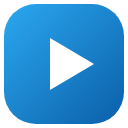
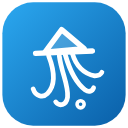
Add-on Tubetto Server 1.0.9

Changed region(s): [[0.2188, 0.1875, 0.8125, 0.875], [0.0, 0.0, 1.0, 1.0]]

diff --git a/tubetto_server/web/app.js b/tubetto_server/web/app.js
@@ -1,7 +1,7 @@
 /* Tubetto Server (add-on Home Assistant) — interfaccia web senza pubblicità, stessa libreria dell'app. */
 'use strict';
 
-const APP_VERSION = '1.0.7';
+const APP_VERSION = '1.0.9';
 const SERVER_MODE = true;
 const SYNC_PATH = 'sync/tubetto-library.json';
 
@@ -454,9 +454,12 @@ function collageThumbs(id) {
   return [...new Set(songs.map(cover).filter(Boolean))].slice(0, 4);
 }
 
+/** Se un'immagine non si carica, al suo posto un disegno (nota musicale su sfumatura). */
+const IMG_FALLBACK = `onerror="this.replaceWith(Object.assign(document.createElement('div'),{className:'tile pl',textContent:'♫'}))"`;
+
 function collageHTML(thumbs, cls = '') {
-  if (thumbs.length >= 4) return `<div class="collage ${cls}">${thumbs.map((t) => `<img loading="lazy" src="${esc(t)}" alt="">`).join('')}</div>`;
-  return `<img class="${cls}" loading="lazy" src="${esc(thumbs[0])}" alt="">`;
+  if (thumbs.length >= 4) return `<div class="collage ${cls}">${thumbs.map((t) => `<img loading="lazy" src="${esc(t)}" alt="" ${IMG_FALLBACK}>`).join('')}</div>`;
+  return `<img class="${cls}" loading="lazy" src="${esc(thumbs[0])}" alt="" ${IMG_FALLBACK}>`;
 }
 
 function imgHTML(v) {
@@ -506,7 +509,7 @@ function tracksHTML(items, opts = {}) {
   return `<div class="tracks">${items.map((v, i) => `
     <div class="track ${cur && cur.id === v.id ? 'playing' : ''}" data-list="${id}" data-idx="${i}" data-vid="${esc(v.id)}">
       <span class="n">${i + 1}</span>
-      <img loading="lazy" src="${esc(thumbOf(v))}" alt="" onerror="this.style.visibility='hidden'">
+      <img loading="lazy" src="${esc(thumbOf(v))}" alt="" ${IMG_FALLBACK}>
       <div class="ellipsis"><div class="tt ellipsis">${esc(v.title)}</div><div class="ta ellipsis">${esc(v.author)}</div></div>
       <span class="td">${esc(v.duration || '')}</span>
       <button class="iconbtn like ${isFav(v.id) ? 'on' : ''}" data-act="like" data-vid="${esc(v.id)}" title="Mi piace">${isFav(v.id) ? '♥' : '♡'}</button>
@@ -1312,7 +1315,7 @@ function renderQueue() {
   box.innerHTML = pl.queue.map((v, i) => `
     <div class="track ${i === pl.idx ? 'playing' : ''}" data-q="${i}">
       <span class="n">${i === pl.idx ? '▶' : i + 1}</span>
-      <img loading="lazy" src="${esc(thumbOf(v))}" alt="">
+      <img loading="lazy" src="${esc(thumbOf(v))}" alt="" ${IMG_FALLBACK}>
       <div class="ellipsis"><div class="tt ellipsis">${esc(v.title)}</div><div class="ta ellipsis">${esc(v.author)}</div></div>
       <button class="iconbtn" data-qrm="${i}" title="Rimuovi">✕</button>
     </div>`).join('') || '<div class="empty">La coda è vuota</div>';

diff --git a/tubetto_server/web/style.css b/tubetto_server/web/style.css
@@ -305,3 +305,8 @@ input[type=range] { accent-color: var(--accent); }
 .collage img { width: 100%; height: 100%; object-fit: cover; border-radius: 0 !important; }
 .sideitem .collage { width: 42px; height: 42px; border-radius: 6px; flex: none; }
 .hero .cover .collage, .hero .cover > img { width: 100%; height: 100%; object-fit: cover; }
+
+/* disegno al posto delle immagini mancanti */
+.track .tile, #queueList .tile { width: 48px; height: 48px; border-radius: 6px; font-size: 22px; }
+#queueList .tile { width: 40px; height: 40px; }
+.collage .tile { width: 100%; height: 100%; font-size: 34px; border-radius: 0; }

diff --git a/tubetto_server/CHANGELOG.md b/tubetto_server/CHANGELOG.md
@@ -1,3 +1,9 @@
+# 1.0.9
+- Nuovo logo: medusa stilizzata.
+
+# 1.0.8
+- Copertine mancanti: al loro posto un disegno (nota musicale) invece dell'icona di immagine rotta.
+
 # 1.0.7
 - "Dimostra di non essere un bot": generatore di PO token (bgutil) integrato e yt-dlp con runtime JavaScript.
   Quando YouTube blocca le richieste dirette, si passa in automatico a yt-dlp + PO token.
